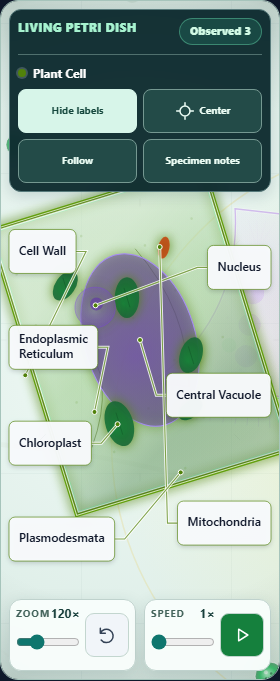
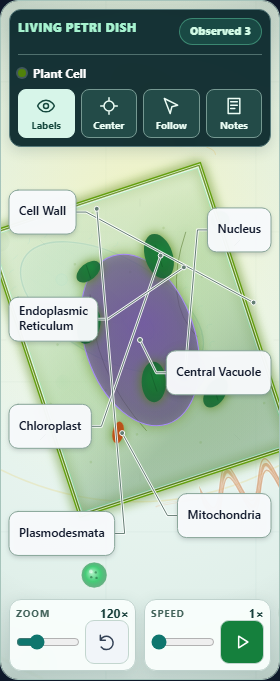
Improve cell microscope controls on narrow screens

diff --git a/desktop/web-app/public/stem_lab/stem_tool_cell.js b/desktop/web-app/public/stem_lab/stem_tool_cell.js
@@ -23718,6 +23718,9 @@ var d = labToolData.cell || {};
               reset: 'M4 10a8 8 0 1 1 1 8 M4 4v6h6',
               previous: 'M14 6l-6 6 6 6',
               up: 'M12 19V5 M6 11l6-6 6 6',
+              labels: 'M2 12s3-7 10-7 10 7 10 7-3 7-10 7S2 12 2 12 M15 12a3 3 0 1 1-6 0 3 3 0 0 1 6 0',
+              follow: 'M4 3l16 8-7 2-2 8-7-18z',
+              notes: 'M5 3h14v18H5z M8 7h8 M8 11h8 M8 15h5',
               next: 'M10 6l6 6-6 6',
               close: 'M6 6l12 12 M18 6L6 18',
               structure: 'M20 12a8 8 0 1 1-16 0 8 8 0 0 1 16 0 M15 11a3 3 0 1 1-6 0 3 3 0 0 1 6 0 M7 16l1 1 M16 6l1 1',
@@ -23904,10 +23907,12 @@ var d = labToolData.cell || {};
 [data-cell-observation-identity]>span:first-child{width:8px;height:8px;border-radius:50%;box-shadow:0 0 0 2px #ffffff30}
 [data-cell-observation-identity]>span:last-child{font-size:10px;color:#b8d5d0}
 [data-cell-observation-actions]{display:flex;gap:6px}
+[data-cell-mobile-tool-icon],[data-cell-tool-short-label]{display:none}
 [data-cell-observation-actions] button{display:flex;gap:5px;align-items:center;justify-content:center;min-height:44px;padding:8px 12px;border:1px solid #759891;border-radius:8px;color:#ecfdf5;background:#234b48;font-size:11px;font-weight:700}
 [data-cell-observation-actions] button:hover{background:#35635b}
 [data-cell-observation-actions] button[aria-pressed=true]{background:#d7f5e9;color:#16483e;border-color:#d7f5e9}
-@container(max-width:640px){[data-cell-observation-tools]{gap:7px}[data-cell-observation-actions]{display:grid;grid-template-columns:repeat(2,minmax(0,1fr));width:100%}[data-cell-observation-actions] button{padding:6px 4px;font-size:10px}[data-cell-observation-identity]>span:last-child{display:none}}
+@container(max-width:640px){[data-cell-observation-tools]{gap:7px}[data-cell-observation-actions]{display:grid;grid-template-columns:repeat(4,minmax(0,1fr));width:100%}[data-cell-observation-actions] button{flex-direction:column;gap:3px;min-height:56px;min-width:0;padding:6px 2px;font-size:11px;line-height:1.2}[data-cell-observation-actions] svg{width:20px;height:20px;flex:none}[data-cell-mobile-tool-icon]{display:inline-flex}[data-cell-tool-short-label]{display:inline}[data-cell-tool-full-label]{display:none}[data-cell-observation-identity]>span:last-child{display:none}}
+@container(max-width:340px){[data-cell-observation-actions] button{font-size:10px}}
 [data-cell-stage-hud]{background:rgba(9,38,43,.94)!important;border-color:#587b7c!important;border-radius:12px!important;box-shadow:0 4px 14px #092e3626!important}
 [data-cell-target-legend]{background:rgba(9,38,43,.96)!important;border-color:#587b7c!important;border-radius:12px!important;box-shadow:0 6px 18px #092e3626!important}
 [data-cell-stage] button:focus-visible{outline:3px solid #fff;outline-offset:3px}
@@ -23920,10 +23925,13 @@ var d = labToolData.cell || {};
 [data-cell-stage-utility] button:focus-visible,[data-cell-stage-utility] input:focus-visible{outline:3px solid #0f766e;outline-offset:3px}
 [data-cell-direction-pad],[data-cell-control-lock]{bottom:86px!important}
 @container(max-width:640px){
-[data-cell-stage-utility]{width:calc(50% - 12px);grid-template-columns:minmax(0,1fr) auto 44px;grid-template-rows:14px 44px;column-gap:5px!important;min-height:72px;padding:6px!important;white-space:nowrap}
+[data-cell-stage-utility]{width:calc(50% - 12px);grid-template-columns:minmax(0,1fr) 44px;grid-template-rows:14px 44px;column-gap:5px!important;min-height:72px;padding:6px!important;white-space:nowrap}
 [data-cell-stage-utility=zoom]{left:8px!important;right:auto!important}
 [data-cell-stage-utility=speed]{right:8px!important;left:auto!important}
-[data-cell-stage-utility] input{height:44px}
+[data-cell-stage-utility] [data-cell-control-label],[data-cell-stage-utility] [data-cell-control-value]{line-height:14px}
+[data-cell-stage-utility] [data-cell-control-value]{justify-self:end}
+[data-cell-stage-utility] input{grid-column:1;height:44px}
+[data-cell-stage-utility] button{grid-column:2;grid-row:2}
 [data-cell-direction-pad],[data-cell-control-lock]{bottom:90px!important}
 }
 [data-cell-visibility-panel]{padding:18px!important;border:1px solid #d4e3df!important;border-radius:16px!important;box-shadow:0 4px 14px #143b4408!important}
@@ -25201,18 +25209,18 @@ h('div', { className: 'mt-2 grid gap-2 md:grid-cols-2' },
                     React.createElement("span", null, "Selected specimen")
                   ),
                   React.createElement("div", { "data-cell-observation-actions": true, role: "group", "aria-label": "Inspect selected specimen" },
-                    React.createElement("button", { type: "button", "data-cell-observation-labels": true, "aria-pressed": d.observationLabels !== false, onClick: function() {
+                    React.createElement("button", { type: "button", "data-cell-observation-labels": true, "aria-pressed": d.observationLabels !== false, "aria-label": d.observationLabels === false ? "Show labels" : "Hide labels", onClick: function() {
                       var visible = d.observationLabels === false;
                       upd('observationLabels', visible);
                       var cv = document.querySelector('[data-cell-sim-canvas]');
                       if (cv && cv._cellSimSetObservationLabels) cv._cellSimSetObservationLabels(visible);
-                    } }, d.observationLabels === false ? "Show labels" : "Hide labels"),
+                    } }, React.createElement('span', { 'data-cell-mobile-tool-icon': true, 'aria-hidden': true }, cellControlIcon('labels')), React.createElement('span', { 'data-cell-tool-full-label': true }, d.observationLabels === false ? "Show labels" : "Hide labels"), React.createElement('span', { 'data-cell-tool-short-label': true }, 'Labels')),
                     React.createElement("button", { type: "button", "data-cell-observation-center": true, onClick: returnToCellDish }, cellControlIcon('locate'), "Center"),
                     d.mode === 'observe' && React.createElement("button", { type: "button", "data-cell-observation-follow": true, "aria-pressed": !!d.followSpecimen, "aria-label": "Follow selected specimen", title: "Keep the selected specimen in view. Drag the dish to stop following.", onClick: function() {
                       var cv = document.querySelector('[data-cell-sim-canvas]');
                       if (cv && cv._cellSimSetFollowSpecimen) cv._cellSimSetFollowSpecimen(!d.followSpecimen);
-                    } }, d.followSpecimen ? "Following" : "Follow"),
-                    React.createElement("button", { type: "button", "data-cell-observation-notes": true, onClick: function() { focusCellOrganismDetail(selDef.id); } }, "Specimen notes")
+                    } }, React.createElement('span', { 'data-cell-mobile-tool-icon': true, 'aria-hidden': true }, cellControlIcon('follow')), d.followSpecimen ? "Following" : "Follow"),
+                    React.createElement("button", { type: "button", "data-cell-observation-notes": true, "aria-label": "Specimen notes", onClick: function() { focusCellOrganismDetail(selDef.id); } }, React.createElement('span', { 'data-cell-mobile-tool-icon': true, 'aria-hidden': true }, cellControlIcon('notes')), React.createElement('span', { 'data-cell-tool-full-label': true }, 'Specimen notes'), React.createElement('span', { 'data-cell-tool-short-label': true }, 'Notes'))
                   )
                 )
               ),

diff --git a/stem_lab/stem_tool_cell.js b/stem_lab/stem_tool_cell.js
@@ -23718,6 +23718,9 @@ var d = labToolData.cell || {};
               reset: 'M4 10a8 8 0 1 1 1 8 M4 4v6h6',
               previous: 'M14 6l-6 6 6 6',
               up: 'M12 19V5 M6 11l6-6 6 6',
+              labels: 'M2 12s3-7 10-7 10 7 10 7-3 7-10 7S2 12 2 12 M15 12a3 3 0 1 1-6 0 3 3 0 0 1 6 0',
+              follow: 'M4 3l16 8-7 2-2 8-7-18z',
+              notes: 'M5 3h14v18H5z M8 7h8 M8 11h8 M8 15h5',
               next: 'M10 6l6 6-6 6',
               close: 'M6 6l12 12 M18 6L6 18',
               structure: 'M20 12a8 8 0 1 1-16 0 8 8 0 0 1 16 0 M15 11a3 3 0 1 1-6 0 3 3 0 0 1 6 0 M7 16l1 1 M16 6l1 1',
@@ -23904,10 +23907,12 @@ var d = labToolData.cell || {};
 [data-cell-observation-identity]>span:first-child{width:8px;height:8px;border-radius:50%;box-shadow:0 0 0 2px #ffffff30}
 [data-cell-observation-identity]>span:last-child{font-size:10px;color:#b8d5d0}
 [data-cell-observation-actions]{display:flex;gap:6px}
+[data-cell-mobile-tool-icon],[data-cell-tool-short-label]{display:none}
 [data-cell-observation-actions] button{display:flex;gap:5px;align-items:center;justify-content:center;min-height:44px;padding:8px 12px;border:1px solid #759891;border-radius:8px;color:#ecfdf5;background:#234b48;font-size:11px;font-weight:700}
 [data-cell-observation-actions] button:hover{background:#35635b}
 [data-cell-observation-actions] button[aria-pressed=true]{background:#d7f5e9;color:#16483e;border-color:#d7f5e9}
-@container(max-width:640px){[data-cell-observation-tools]{gap:7px}[data-cell-observation-actions]{display:grid;grid-template-columns:repeat(2,minmax(0,1fr));width:100%}[data-cell-observation-actions] button{padding:6px 4px;font-size:10px}[data-cell-observation-identity]>span:last-child{display:none}}
+@container(max-width:640px){[data-cell-observation-tools]{gap:7px}[data-cell-observation-actions]{display:grid;grid-template-columns:repeat(4,minmax(0,1fr));width:100%}[data-cell-observation-actions] button{flex-direction:column;gap:3px;min-height:56px;min-width:0;padding:6px 2px;font-size:11px;line-height:1.2}[data-cell-observation-actions] svg{width:20px;height:20px;flex:none}[data-cell-mobile-tool-icon]{display:inline-flex}[data-cell-tool-short-label]{display:inline}[data-cell-tool-full-label]{display:none}[data-cell-observation-identity]>span:last-child{display:none}}
+@container(max-width:340px){[data-cell-observation-actions] button{font-size:10px}}
 [data-cell-stage-hud]{background:rgba(9,38,43,.94)!important;border-color:#587b7c!important;border-radius:12px!important;box-shadow:0 4px 14px #092e3626!important}
 [data-cell-target-legend]{background:rgba(9,38,43,.96)!important;border-color:#587b7c!important;border-radius:12px!important;box-shadow:0 6px 18px #092e3626!important}
 [data-cell-stage] button:focus-visible{outline:3px solid #fff;outline-offset:3px}
@@ -23920,10 +23925,13 @@ var d = labToolData.cell || {};
 [data-cell-stage-utility] button:focus-visible,[data-cell-stage-utility] input:focus-visible{outline:3px solid #0f766e;outline-offset:3px}
 [data-cell-direction-pad],[data-cell-control-lock]{bottom:86px!important}
 @container(max-width:640px){
-[data-cell-stage-utility]{width:calc(50% - 12px);grid-template-columns:minmax(0,1fr) auto 44px;grid-template-rows:14px 44px;column-gap:5px!important;min-height:72px;padding:6px!important;white-space:nowrap}
+[data-cell-stage-utility]{width:calc(50% - 12px);grid-template-columns:minmax(0,1fr) 44px;grid-template-rows:14px 44px;column-gap:5px!important;min-height:72px;padding:6px!important;white-space:nowrap}
 [data-cell-stage-utility=zoom]{left:8px!important;right:auto!important}
 [data-cell-stage-utility=speed]{right:8px!important;left:auto!important}
-[data-cell-stage-utility] input{height:44px}
+[data-cell-stage-utility] [data-cell-control-label],[data-cell-stage-utility] [data-cell-control-value]{line-height:14px}
+[data-cell-stage-utility] [data-cell-control-value]{justify-self:end}
+[data-cell-stage-utility] input{grid-column:1;height:44px}
+[data-cell-stage-utility] button{grid-column:2;grid-row:2}
 [data-cell-direction-pad],[data-cell-control-lock]{bottom:90px!important}
 }
 [data-cell-visibility-panel]{padding:18px!important;border:1px solid #d4e3df!important;border-radius:16px!important;box-shadow:0 4px 14px #143b4408!important}
@@ -25201,18 +25209,18 @@ h('div', { className: 'mt-2 grid gap-2 md:grid-cols-2' },
                     React.createElement("span", null, "Selected specimen")
                   ),
                   React.createElement("div", { "data-cell-observation-actions": true, role: "group", "aria-label": "Inspect selected specimen" },
-                    React.createElement("button", { type: "button", "data-cell-observation-labels": true, "aria-pressed": d.observationLabels !== false, onClick: function() {
+                    React.createElement("button", { type: "button", "data-cell-observation-labels": true, "aria-pressed": d.observationLabels !== false, "aria-label": d.observationLabels === false ? "Show labels" : "Hide labels", onClick: function() {
                       var visible = d.observationLabels === false;
                       upd('observationLabels', visible);
                       var cv = document.querySelector('[data-cell-sim-canvas]');
                       if (cv && cv._cellSimSetObservationLabels) cv._cellSimSetObservationLabels(visible);
-                    } }, d.observationLabels === false ? "Show labels" : "Hide labels"),
+                    } }, React.createElement('span', { 'data-cell-mobile-tool-icon': true, 'aria-hidden': true }, cellControlIcon('labels')), React.createElement('span', { 'data-cell-tool-full-label': true }, d.observationLabels === false ? "Show labels" : "Hide labels"), React.createElement('span', { 'data-cell-tool-short-label': true }, 'Labels')),
                     React.createElement("button", { type: "button", "data-cell-observation-center": true, onClick: returnToCellDish }, cellControlIcon('locate'), "Center"),
                     d.mode === 'observe' && React.createElement("button", { type: "button", "data-cell-observation-follow": true, "aria-pressed": !!d.followSpecimen, "aria-label": "Follow selected specimen", title: "Keep the selected specimen in view. Drag the dish to stop following.", onClick: function() {
                       var cv = document.querySelector('[data-cell-sim-canvas]');
                       if (cv && cv._cellSimSetFollowSpecimen) cv._cellSimSetFollowSpecimen(!d.followSpecimen);
-                    } }, d.followSpecimen ? "Following" : "Follow"),
-                    React.createElement("button", { type: "button", "data-cell-observation-notes": true, onClick: function() { focusCellOrganismDetail(selDef.id); } }, "Specimen notes")
+                    } }, React.createElement('span', { 'data-cell-mobile-tool-icon': true, 'aria-hidden': true }, cellControlIcon('follow')), d.followSpecimen ? "Following" : "Follow"),
+                    React.createElement("button", { type: "button", "data-cell-observation-notes": true, "aria-label": "Specimen notes", onClick: function() { focusCellOrganismDetail(selDef.id); } }, React.createElement('span', { 'data-cell-mobile-tool-icon': true, 'aria-hidden': true }, cellControlIcon('notes')), React.createElement('span', { 'data-cell-tool-full-label': true }, 'Specimen notes'), React.createElement('span', { 'data-cell-tool-short-label': true }, 'Notes'))
                   )
                 )
               ),

diff --git a/tests/e2e/cell-observation-toolbar.spec.ts b/tests/e2e/cell-observation-toolbar.spec.ts
@@ -1,0 +1,56 @@
+import {test,expect} from '@playwright/test';
+import {GlHarness} from './helpers/stem_gl_harness';
+const harness=new GlHarness({toolFile:'stem_lab/stem_tool_cell.js',toolId:'cell',width:1200,height:1000,appStyles:true});
+test.beforeAll(()=>harness.start());test.afterAll(()=>harness.stop());test.afterEach(async({page})=>harness.destroy(page));
+for(const width of [280,320,390,1200])test('observation toolbar retains four usable actions at '+width,async({page})=>{
+ await page.emulateMedia({reducedMotion:'reduce'});await page.setViewportSize({width,height:1000});
+ const errors:string[]=[];page.on('pageerror',e=>errors.push(e.message));
+ await harness.mount(page,{cell:{mode:'observe',selectedOrganism:'plantcell',paused:true,zoom:2}},undefined,{expectCanvas:false});
+ await page.addStyleTag({content:'body{background:#f8fafc}#wrap{width:100%;max-width:1200px;display:block}'});
+ const canvas=page.locator('[data-cell-sim-canvas]'),stage=page.locator('[data-cell-stage]'),actions=stage.getByRole('group',{name:'Inspect selected specimen'});
+ await stage.scrollIntoViewIfNeeded();await expect(actions.getByRole('button')).toHaveCount(4);
+ const controls=await actions.getByRole('button').evaluateAll(nodes=>nodes.map(e=>{const r=e.getBoundingClientRect();return {x:r.x,y:r.y,w:r.width,h:r.height}}));
+ expect(controls.every(r=>r.w>=44&&r.h>=44)).toBe(true);
+ expect(controls.every(r=>Math.abs(r.y-controls[0].y)<1)).toBe(true);
+ for(let i=1;i<controls.length;i++)expect(controls[i].x).toBeGreaterThanOrEqual(controls[i-1].x+controls[i-1].w);
+ // Utility headings have their own space even at maximum magnification/speed.
+ const zoom=stage.getByRole('slider',{name:'Microscope zoom level'}),speed=stage.getByRole('slider',{name:'Simulation speed'});
+ await zoom.focus();await page.keyboard.press('End');await expect(zoom).toHaveValue('10');
+ await expect(stage.locator('[data-cell-control-value=zoom]')).toHaveText('400×');
+ expect(await canvas.evaluate((c:any)=>c._cellSimGetObservationView().camera.zoom)).toBe(10);
+ await speed.focus();await page.keyboard.press('End');await expect(speed).toHaveValue('5');
+ await expect(stage.locator('[data-cell-control-value=speed]')).toHaveText('5×');
+ for(const utility of await stage.locator('[data-cell-stage-utility]').all()){
+  const label=(await utility.locator('[data-cell-control-label]').boundingBox())!,value=(await utility.locator('output').boundingBox())!,slider=(await utility.locator('input').boundingBox())!,button=(await utility.locator('button').boundingBox())!,card=(await utility.boundingBox())!;
+  expect(label.x+label.width+4).toBeLessThanOrEqual(value.x);
+  expect(value.x+value.width).toBeLessThanOrEqual(card.x+card.width);
+  expect(slider.x+slider.width).toBeLessThanOrEqual(button.x);
+  expect(button.width).toBeGreaterThanOrEqual(44);expect(button.height).toBeGreaterThanOrEqual(44);
+  if(width<=390){expect(card.height).toBeLessThanOrEqual(74);expect(slider.height).toBeGreaterThanOrEqual(44);expect(button.y).toBeGreaterThanOrEqual(value.y+value.height);}
+ }
+ await stage.getByRole('button',{name:'Reset microscope view',exact:true}).click();
+ await expect.poll(async()=>Number(await zoom.inputValue())).toBe(await canvas.evaluate((c:any)=>c._cellSimGetObservationView().camera.zoom));
+ await speed.focus();await page.keyboard.press('Home');await expect(speed).toHaveValue('1');
+ await stage.getByRole('button',{name:'Play simulation',exact:true}).click();await expect(stage.getByRole('button',{name:'Pause simulation',exact:true})).toHaveAttribute('aria-pressed','true');
+ await stage.getByRole('button',{name:'Pause simulation',exact:true}).click();await expect(stage.getByRole('button',{name:'Play simulation',exact:true})).toHaveAttribute('aria-pressed','false');
+ const hud=stage.locator('[data-cell-stage-hud]'),initialHud=(await hud.boundingBox())!;
+ if(width<=390){expect(initialHud.height).toBeLessThan(160);await expect(actions.locator('[data-cell-tool-short-label]').first()).toBeVisible();}
+ else await expect(actions.locator('[data-cell-tool-full-label]').last()).toBeVisible();
+ const follow=actions.getByRole('button',{name:'Follow selected specimen',exact:true});
+ await follow.focus();await page.keyboard.press('Enter');await expect(follow).toHaveAttribute('aria-pressed','true');await expect(follow).toBeFocused();
+ expect(await canvas.evaluate((c:any)=>c._cellSimGetObservationView().following)).toBe(true);
+ expect((await hud.boundingBox())!.height).toBe(initialHud.height);
+ await follow.click();await expect(follow).toHaveAttribute('aria-pressed','false');
+ await actions.getByRole('button',{name:'Hide labels',exact:true}).click();
+ await expect.poll(()=>canvas.evaluate((c:any)=>c._cellSimGetAnatomyLabels().length)).toBe(0);
+ await actions.getByRole('button',{name:'Show labels',exact:true}).click();
+ await expect.poll(()=>canvas.evaluate((c:any)=>c._cellSimGetAnatomyLabels().length)).toBeGreaterThan(0);
+ await actions.getByRole('button',{name:'Center',exact:true}).click();await expect(canvas).toBeFocused();
+ expect(await canvas.evaluate((c:any)=>c._cellSimGetObservationView().camera.zoom)).toBe(3);
+ // The newly available area must remain above the label rows rather than cover them.
+ await expect.poll(async()=>{const c=(await canvas.boundingBox())!,h=(await hud.boundingBox())!;return canvas.evaluate((e:any,top:number)=>e._cellSimGetAnatomyLabels().every((b:any)=>b.y>=top),h.y+h.height-c.y);}).toBe(true);
+ await stage.screenshot({path:'reports/cell-structure-explorer/compact-toolbar-'+width+'.png'});
+ await actions.getByRole('button',{name:'Specimen notes',exact:true}).click();
+ await expect(page.locator('[data-cell-selected-organism-card]')).toBeInViewport();
+ expect(await page.evaluate(()=>document.documentElement.scrollWidth<=innerWidth)).toBe(true);expect(errors).toEqual([]);
+});

diff --git a/reports/cell-structure-explorer/README.md b/reports/cell-structure-explorer/README.md
@@ -56,3 +56,18 @@ Observe mode now places the structure explorer beside the microscope when its av
 
 The same DOM wrappers and canvas remain mounted across layout changes. The layout test resizes between desktop, a 900px app container and a 320px phone, checking canvas identity, preserved camera/selection/zoom and retained picker focus. Screenshots capture the full desktop workspace and both stacked variants. Existing explorer and focused-label scenarios verify navigation, stable label positions, keyboard return, touch cancellation and play behavior at the new sizes.
 All nine explorer/focused-label/layout browser scenarios passed. Desktop split and phone stacked screenshots reviewed; source syntax, scoped whitespace and all four mirror copies passed. No push or deployment.
+
+## Compact phone microscope toolbar — 2026-09-19
+
+At narrow microscope widths, Labels, Center, Follow/Following and Notes now remain visible in one row with icons and short captions. Each control retains a large tap target; Labels still exposes the current Show labels/Hide labels action to assistive technology, and Notes retains the full Specimen notes accessible name. Desktop wording and the existing action behavior remain unchanged. No extra menu or disclosure is needed.
+
+Browser checks cover 280/320/390/1200px layouts, four non-overlapping controls of at least 44px in each dimension, a phone HUD below 160px tall, steady toolbar height while following, keyboard activation, show/hide labels, centering, notes navigation and label clearance below the HUD. Existing motion-stability and touch-label scenarios are included.
+All ten toolbar, motion-stability and touch-label browser scenarios passed. Reviewed 280px and desktop screenshots. Source syntax, scoped whitespace and four-way mirror parity passed. No push or deployment.
+
+## Clearer phone zoom and speed controls — 2026-09-19
+
+At microscope widths up to 640px, each utility card now gives its heading and value the full top row, with its slider and action button below. This separates Zoom from magnification even at 400× on a 280px display. The cards retain their existing height and 44px touch controls. The desktop layout is unchanged.
+
+The toolbar browser checks now exercise maximum zoom/speed through the keyboard, measure heading separation and button clearance, confirm canvas zoom synchronization, and exercise reset and play/pause. Existing touch-label checks cover label access around the overlays.
+
+All eight toolbar and touch-label browser scenarios passed at 280/320/390/1200px. Phone and desktop screenshots reviewed. Source syntax, scoped whitespace and four-way mirror parity passed. No push or deployment.
